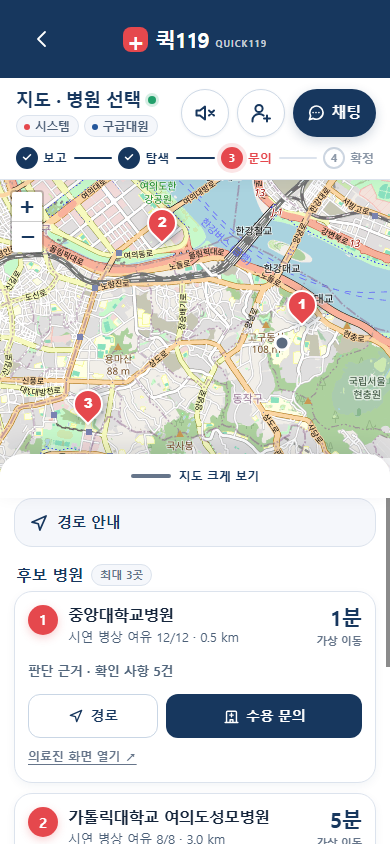
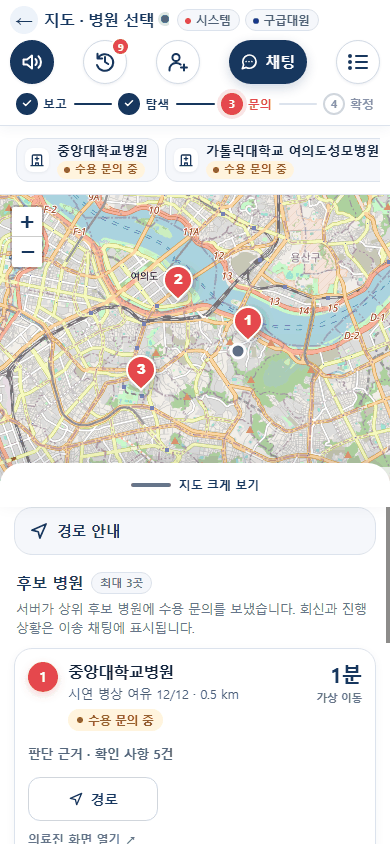
Refresh README screenshots and list implemented features
Recapture the mobile and hospital screens from a full synthetic run
(intake, search, accept, confirm, depart, chat, adjustment, alternative
hospital) and add a feature inventory for the paramedic app, hospital web
and common server. Drop the retired hospital-response capture.

diff --git a/README.md b/README.md
@@ -1,29 +1,98 @@
 # Quick 119
 
-구급대원이 환자 상태를 대화로 기록하고 후보 병원에 수용을 문의하는 이송 지원 시연입니다. 병원은 웹에서 문의에 회신하고, 구급대원이 목적지를 확정하면 양쪽에서 이송 상태와 대화를 공유합니다.
+구급대원이 환자 상태를 대화로 기록하고 후보 병원에 수용을 문의하는 이송 지원 시연입니다. 병원은 웹에서 문의에 회신하고, 구급대원이 목적지를 확정하면 양쪽에서 이송 상태와 대화를 공유합니다. 확정한 병원이 수용을 유지하지 못하면 서버가 대체 병원에 다시 문의하고, 구급대원이 새 목적지를 확정합니다.
 
 **인증 없는 가상 데이터 시연입니다. 실제 환자 정보, 실제 이송 또는 임상 판단에 사용하지 마세요.**
 
 ## 주요 화면
 
-아래 화면은 같은 저장소의 서버를 별도 포트와 임시 DB로 실행해 촬영했습니다. 환자 상태와 응답은 가상이며, 서울 시연 병원은 공개 자료를 바탕으로 구성한 시연 데이터입니다.
+아래 화면은 같은 저장소의 서버를 별도 포트와 임시 DB로 실행하고, 헤드리스 Chrome으로 접수부터 대체 병원 확정까지 실제로 진행하며 촬영했습니다(2026-11-20, 휴대폰 390×844 · 병원 웹 1440×900). 환자 상태와 응답은 가상이며, 서울 시연 병원은 공개 자료를 바탕으로 구성한 시연 데이터입니다.
 
-| 구급대 접수 채팅 | 환자 정보 최종 확인 | 지도와 후보 병원 |
+### 구급대 모바일 화면
+
+| 접수 채팅 | 환자 정보 최종 확인 | 지도와 후보 병원 |
 | --- | --- | --- |
-| ![모바일 접수 채팅에서 가상 환자 상태와 시스템 답변을 확인하는 화면](images/readme/mobile-chat.png) | ![추출된 환자 정보와 보고 원문을 확인하는 모바일 화면](images/readme/mobile-review.png) | ![지도에 후보 병원 세 곳과 수용 문의 버튼이 표시된 모바일 화면](images/readme/mobile-map.png) |
-| 환자 상태를 글이나 음성으로 보고합니다. 상단 스피커로 시스템 메시지 낭독을 켜고 끌 수 있습니다. | 나이·증상·활력징후 등 추출 결과와 보고 원문을 확인한 뒤 병원 탐색을 시작합니다. | 후보의 시연 이동시간과 병상 여유를 보고 경로를 확인하거나 수용을 문의합니다. |
+| ![모바일 접수 채팅에서 가상 환자 상태를 보고하고 맥박 수정 명령에 시스템이 답한 화면](images/readme/mobile-chat.png) | ![병원 탐색 전 12항목 추출 결과와 보고 원문을 확인하는 모바일 화면](images/readme/mobile-review.png) | ![지도에 후보 병원 세 곳의 번호 핀과 후보 카드가 표시된 모바일 화면](images/readme/mobile-map.png) |
+| 글이나 음성으로 보고하면 항목별로 정리해 답합니다. "맥박 112로 수정해 줘"처럼 채팅으로 고칩니다. | 12항목과 보고 원문을 확인한 뒤 병원 탐색을 시작합니다. 모르는 항목은 `미확인`으로 남습니다. | 서버가 상위 후보 3곳에 수용을 문의합니다. 시연 이동시간·병상 여유와 판단 근거를 봅니다. |
+
+| 수용 응답 · 목적지 확정 | 병원 합류 · 이송 대화 | 병원 조정 · 대체 병원 | 진행 기록 |
+| --- | --- | --- | --- |
+| ![가로 문의 카드에서 수용 가능 응답 병원과 목적지 확정 체크가 보이는 모바일 화면](images/readme/mobile-inquiry.png) | ![목적지 확정 후 병원 의료진이 대화에 합류해 메시지를 주고받는 모바일 화면](images/readme/mobile-hospital-chat.png) | ![현재 목적지와 수용 가능한 대체 병원 카드, 조정 사유 안내가 보이는 모바일 화면](images/readme/mobile-reassign.png) | ![병원 문의와 상태 변화를 시간순으로 보여 주는 진행 기록 창](images/readme/mobile-progress-log.png) |
+| 문의 상태는 가로로 넘기는 카드로 봅니다. 수용 가능 카드의 체크를 눌러 목적지를 확정합니다. | 확정한 병원만 대화에 들어오고 앞선 보고를 함께 봅니다. 문의·확정·출발은 가운데 얇은 띠로 표시됩니다. | 병원이 수용 취소를 요청하면 현재 목적지와 대체 병원 카드가 나옵니다. 새 목적지는 구급대원이 확정합니다. | 채팅에서 뺀 병원 문의·회신 기록은 상단 기록 버튼에서 시간순으로 확인합니다. |
 
 지도 배경: [© OpenStreetMap 기여자](https://www.openstreetmap.org/copyright). 표시된 직선 경로와 시간은 가상 추정치로 실제 길안내나 이송 판단에 사용할 수 없습니다.
 
 ### 병원 웹
 
-병원 담당자는 **수용 문의**에서 대기 중인 가상 환자를 선택하고 필요한 정보와 자원을 확인합니다. **수용 가능**, **확인 중**, **수용 불가** 중 하나로 회신할 수 있습니다.
+![병원 웹의 대기 중인 수용 문의와 환자 요약, 필요 자원, 우리 병원 신규 여유, 수용 가능·확인 중·수용 불가 버튼](images/readme/hospital-inquiry.png)
 
-![PC 병원 웹의 대기 중인 수용 문의 목록과 환자 확인 안내](images/readme/hospital-inquiry.png)
+**수용 문의**에서 대기 중인 가상 환자를 선택하고 필요한 진료·자원과 우리 병원 신규 여유를 확인한 뒤 **수용 가능**, **확인 중**, **수용 불가** 중 하나로 회신합니다.
 
-![PC 병원 웹에서 가상 환자의 수용 가능, 확인 중, 수용 불가 버튼을 표시한 화면](images/readme/hospital-response.png)
+![병원 웹의 도착 예정 환자, 이송 대화와 수용 유지·수용 취소 요청·환자 도착 확인 버튼](images/readme/hospital-transport.png)
 
-구급대원이 수용된 병원을 목적지로 확정한 후에는 **도착 예정 · 이송 대화**에서 같은 환자의 이송 상태와 메시지를 확인하고 도착을 처리합니다.
+구급대원이 목적지를 확정하면 **도착 예정 · 이송 대화**에서 도착 예정 시각과 대화를 확인하고, **수용 유지**, **수용 취소 요청**(사유 입력), **환자 도착 확인**을 처리합니다.
+
+## 구현된 기능
+
+### 구급대 앱 (`quick119-pwa/`)
+
+**접수와 보고**
+- 홈의 **응급상황 접수 시작**으로 새 가상 접수를 만들고 접수 채팅(`/transport/`)을 엽니다. 예전 `/emergency`, `/voice-intake` 주소도 같은 화면으로 이동합니다.
+- 환자 상태를 글이나 브라우저 음성 인식으로 보고합니다. 서버가 나이·성별·증상·의식·호흡·혈압·맥박·산소포화도·체온·호흡수·혈당·발생 시각 12항목을 추출해 항목별로 답하고, 빠진 항목을 다시 묻습니다.
+- 인식 후보끼리 숫자나 부정이 엇갈리면 그 항목만 재확인합니다. 용어 교정은 후보로만 보여 주고, 숫자는 바꾸지 않고 확인 표시만 붙입니다.
+
+**채팅 명령**
+- `맥박 92로 수정해 줘`(수정), `방금 입력 취소`(되돌리기), `질문 다시 해 줘`(질문 반복)를 채팅이나 음성으로 처리합니다.
+- `전송해줘`는 12항목 확인창을 열고, **확인하고 병원 탐색**을 눌러야 반영합니다.
+- 목적지가 확정된 뒤 `병원에 전화 연결해 줘`라고 하면 확정 병원의 전화 걸기 버튼을 띄웁니다.
+- 수용 문의, 목적지 확정, 출발은 음성으로 실행하지 않고 화면 버튼으로만 합니다.
+
+**병원 탐색과 지도**
+- 최종 확인 후 서버가 진료 조건·자원·시연 이동시간으로 후보를 고르고 상위 3곳에 자동으로 수용을 문의합니다.
+- 지도에 번호 핀(1~3)과 접수 위치를 표시하고, 후보 카드에 순위·이동시간·응급병상 여유·판단 근거를 보여 줍니다.
+- 경로 보기와 실시간 GPS 안내(거리·예상 시간, 내 위치 따라가기, 카카오맵 링크)를 지원합니다. `-SyntheticRoutes`에서는 가상 직선 경로임을 계속 표시합니다.
+
+**문의, 확정, 이송**
+- 상단 가로 카드에 병원별 문의 상태(수용 문의 중·의료진 확인 중·수용 가능 응답·수용 불가·만료·종료)를 표시하고, 수용 가능 카드의 체크로 목적지를 확정합니다.
+- 확정하면 다른 병원 문의는 자동으로 종료되고, 확정 병원만 대화에 합류해 확정 전 보고를 함께 봅니다.
+- **이송 출발** 후 병원과 메시지를 주고받습니다. 지도를 보는 동안 온 의료진 메시지는 배지로 알립니다.
+- 병원이 수용 취소를 요청하면 서버가 대체 병원에 자동으로 문의합니다. 현재 목적지를 유지한 채 대체 병원 카드가 나오며, 구급대원이 새 목적지를 확정해야 바뀝니다.
+
+**화면과 기록**
+- 4단계 진행 표시(보고 → 탐색 → 문의 → 확정), 참여자 칩, 목적지 칩을 헤더에 보여 줍니다.
+- 문의·확정·조정 같은 시스템 이벤트는 가운데 얇은 띠로 보여 주고, 전체 문의·회신 기록은 **진행 기록** 창에 시간순으로 남깁니다.
+- 시스템 메시지를 한국어 음성으로 읽어 줍니다. PC의 Windows 음성을 먼저 쓰고, 없으면 브라우저 음성을 씁니다(`-EnableCloudSpeech`로 Microsoft 신경망 음성 선택).
+- **환자 목록**에서 저장된 접수와 대화를 다시 열고, 조건을 만족하는 접수는 확인 후 삭제합니다.
+- 휴대폰 키보드가 열리면 헤더와 문의 카드를 줄여 대화와 입력칸을 남기는 입력 집중 모드로 바뀝니다.
+- 전송 결과가 불확실한 메시지는 같은 요청으로 다시 보내고, 3초마다 서버와 동기화합니다.
+- PWA 설치 정보(manifest·서비스 워커)와 설치 점검 화면(`/pwa-check`)을 제공합니다.
+
+### 병원 웹 (`hospital-ui/`)
+
+- **수용 문의**: 대기 문의를 한 줄씩 보여 주고, 선택한 환자의 요약·필요 진료·필요 자원·우리 병원 신규 여유를 표시합니다. 큰 버튼 세 개로 회신하며, 수용 불가는 인력·장비·병상·진료 불가·기타 중 사유를 고릅니다. 추가 질문과 구급대 전화 연결도 여기서 합니다.
+- **새 문의 알림**: 다른 탭에서 일하는 중에도 새 문의를 팝업으로 알리고, 대기 건수를 탭에 계속 표시합니다. 처리된 문의의 알림은 자동으로 사라집니다.
+- **도착 예정 · 이송 대화**: 확정·이송·도착 환자와 도착 예정 시각을 보고, 이송 대화와 수용 유지·수용 취소 요청·도착 확인을 처리합니다.
+- **이송 중 변경 검토**: 이송 중 환자 상태가 바뀌어 판단이 필요한 환자를 메인 화면에 표시합니다.
+- **중요 사건**: 목적지 확정 같은 중요 사건의 화면 수신과 담당자 확인 시각을 따로 기록합니다.
+- **운영 도구**: 병원 자원(조회 전용, 서버 자동 반영), 수용 제한 등록·해제, 통화 기록·내용 확인, 업무 시작·종료 계측, 시스템 밖 환자 유입 등록·퇴실을 다룹니다.
+- **추천·입력 확인**: 서버가 계산한 배정 추천과 입력 확인 안내를 읽기 전용으로 보여 줍니다.
+
+### 공통 서버 (`server/`)
+
+- **수용 문의 흐름**: 후보 조회, 자동 문의 워커, 회신(수용 가능·확인 중·불가와 사유, 추가 질문·답변), 재문의·취소, 수용 응답 유효시간(실험 설정 10분)을 관리합니다. 유효한 수용 응답이 생기면 추가 문의를 멈추고 담당자의 확정을 기다립니다.
+- **확정과 이송 상태**: 목적지 확정·출발(도착 예정 시각)·도착·미도착·퇴실과 목적지 변경을 같은 환자 ID로 기록합니다.
+- **자원 계산**: 신규 여유를 `총량 − 점유 − 확정 수요`로 계산하고, 확정·도착·퇴실 때 자동 반영합니다. 수용 응답만으로는 자리를 잡지 않습니다.
+- **조정과 재확인**: 수용 취소 요청 시 대체 병원 자동 문의, 바뀐 조건에 영향받는 환자만 재확인, 이송 중 환자 변경 검토를 지원합니다.
+- **대화**: 구급대·병원·시스템 메시지를 참여 구간별로 저장하고, 병원은 참여한 구간만 조회합니다. 자유 메시지로는 수용·목적지가 바뀌지 않습니다.
+- **기록과 계측**: 통화 결과 기록과 상대 기관의 내용 확인, 업무 활동 계측, 중요 사건 수신·확인, 외부 유입, 정산 대사, 공공데이터 출처를 API로 제공합니다.
+- **음성 접수 API**: 음성 세션의 받아쓰기·명령 판별·후속 질문·복창·되돌리기·확정과 치료 조건 변경 검토를 제공합니다.
+- **배정 계획**: CP-SAT 기반 배정 추천을 계산합니다. 시연용 `voice-only` 모드에서는 배정 솔버를 실행하지 않고 문의·대체 문의 워커만 실행합니다.
+
+### 제한
+
+- 사용자 인증·권한이 없어 가상 데이터만 다루며, 서버는 `127.0.0.1`에서만 접속을 받습니다.
+- 실제 병원·EMR과 연결하지 않으며, 병원 회신과 자원은 모두 가상입니다.
+- 실제 마이크·사이렌 환경의 음성 인식, 실기기 GPS, 설치형 PWA는 검증하지 않았습니다.
 
 ## PC에서 시연 실행
 
@@ -56,10 +125,11 @@ powershell -NoProfile -ExecutionPolicy Bypass -File .\scripts\start-chat-api.ps1
 현재 통합 시연은 **같은 PC의 loopback 연결만 허용**합니다. 휴대폰에서 PC의 LAN 주소로 접속하는 연결은 지원하지 않으므로, PC 브라우저의 개발자 도구에서 모바일 기기 화면 크기로 전환해 시연하세요. 별도의 인증·보안 연결 없이 이 제한을 해제하거나 실제 환자 정보를 입력하지 마세요. 휴대폰 설치·마이크 사용에는 지원 브라우저와 HTTPS 등 보안 컨텍스트도 필요합니다.
 
 1. `/transport/`에서 가상 환자 상태를 입력하고 **보내기**를 누릅니다. 지원 브라우저에서는 마이크로 입력할 수 있으며, 음성 인식은 브라우저 제공자의 서버에서 처리될 수 있습니다.
-2. 시스템이 인식한 항목을 채팅에 보여 줍니다. 상단 **환자 정보 확인** 버튼으로 저장된 정보를 조회하고, 스피커 버튼으로 TTS을 켜거나 끕니다.
-3. **병원 탐색 시작**을 눌러 추출 정보와 보고 원문을 확인한 후 **확인하고 병원 탐색**을 누릅니다. 서버가 적합한 상위 후보 병원에 자동으로 수용 문의를 보내며, 문의 진행과 회신은 채팅에 표시됩니다. 지도에서 경로를 확인하거나 **의료진 화면 열기**로 병원 웹을 열 수 있습니다.
-4. 병원 웹에서 문의를 선택해 **수용 가능**을 누릅니다. 구급대 화면에서 해당 병원을 **목적지 확정**하면 병원이 대화에 참여합니다. 병원이 수용 취소를 요청하면 서버가 대체 병원에 자동 문의하며, 구급대원이 새 병원을 확정해야 목적지가 바뀝니다.
-5. **이송 출발** 후 양쪽에서 메시지를 주고받습니다. 병원 웹의 **도착 예정 · 이송 대화**에서 환자를 선택해 **도착 확인**을 누릅니다.
+2. 시스템이 인식한 항목을 채팅에 답합니다. 틀린 값은 `맥박 92로 수정해 줘`처럼 채팅으로 고칩니다. 상단 **환자 정보 확인** 버튼으로 저장된 정보를 조회하고, 스피커 버튼으로 낭독을 켜거나 끕니다.
+3. **병원 탐색 시작**(또는 `전송해줘`)으로 12항목과 보고 원문을 확인한 후 **확인하고 병원 탐색**을 누릅니다. 서버가 상위 후보 병원에 자동으로 수용 문의를 보내며, 문의 상태는 상단 카드에, 전체 기록은 **진행 기록**에 표시됩니다. 지도에서 경로를 확인하거나 **의료진 화면 열기**로 병원 웹을 열 수 있습니다.
+4. 병원 웹에서 문의를 선택해 **수용 가능**을 누릅니다. 구급대 화면에서 수용 가능 카드의 체크를 눌러 목적지를 확정하면 병원이 대화에 참여합니다.
+5. **이송 출발** 후 양쪽에서 메시지를 주고받습니다. 병원 웹의 **도착 예정 · 이송 대화**에서 환자를 선택해 **환자 도착 확인**을 누릅니다.
+6. 병원 웹에서 사유를 적고 **수용 취소 요청**을 누르면 서버가 대체 병원에 문의합니다. 대체 병원이 수용하면 구급대 화면의 대체 병원 카드 체크로 새 목적지를 확정합니다.
 
 채팅 상단의 **환자 목록** 아이콘에서 저장된 접수와 환자별 대화를 다시 열 수 있습니다. 목록 카드는 `환자 1`, `환자 2`처럼 접수 순서로 번호가 매겨지며, 삭제 후에도 기존 번호를 다시 쓰지 않습니다. 연령·증상·병원 문의 상태는 카드의 **상세 정보**를 펼쳐 확인합니다.
 
@@ -77,6 +147,7 @@ powershell -NoProfile -ExecutionPolicy Bypass -File .\scripts\start-chat-api.ps1
 | `datasets/demo/` | 서울 시연 병원 자료 |
 | `simulation/observed_inquiry.py`, `solver_improved.py`, `speech_eval/asr_correction.py` | 서버가 사용하는 문의·배정·음성 처리 |
 | `tests/`, `quick119-pwa/tests/` | 유지된 기능의 회귀 테스트 |
+| `images/readme/` | 이 문서의 화면 캡처 |
 
 ## 검증
 
